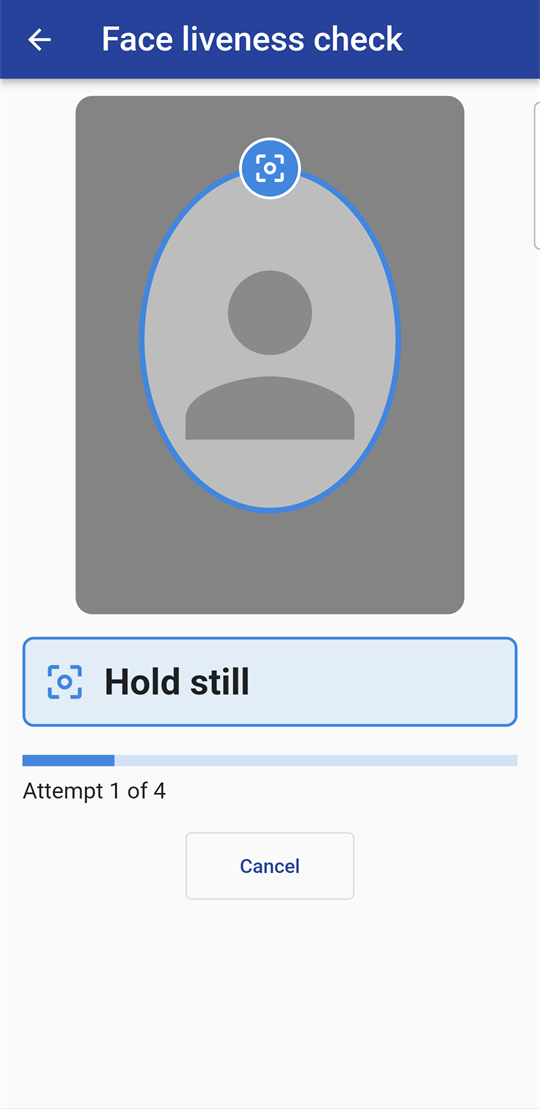
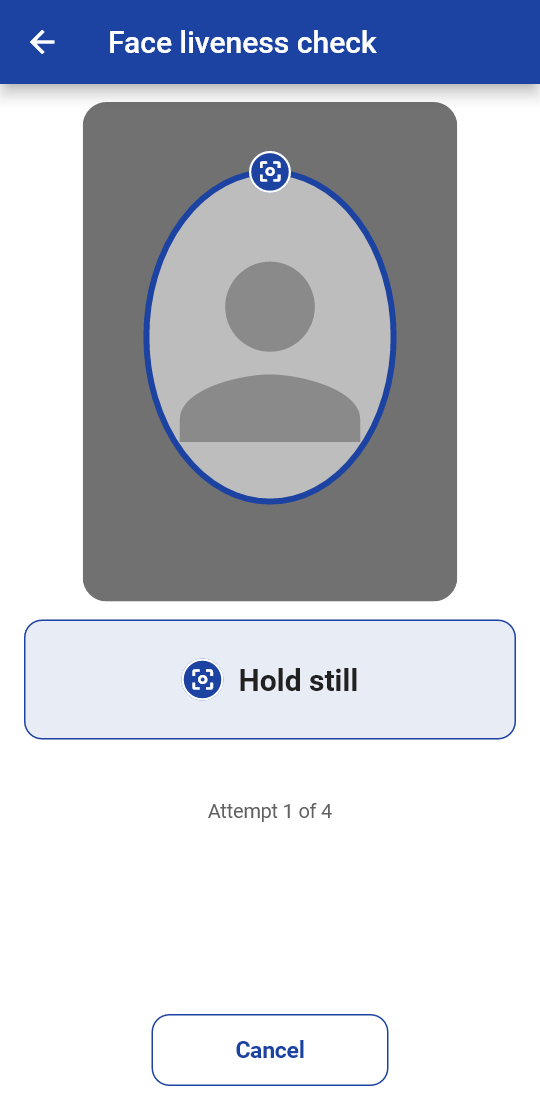
Liveness screen visual design: spec section 9 and the Android screenshots (task 16)
docs/ui-liveness-spec.md, section 9 "Visual design", is new. It holds the tokens both clients now share:
- the order: camera card, status card, hint line, progress row, tips, and the buttons pinned to the bottom;
- the camera card (3:4 on the phone, 4:3 on Desktop, at most 45% of the height, a 40% scrim, the 28 dp badge on the
  oval's top centre);
- the status card (20/600, at most 2 lines, stepping down to 16 where needed; the state colour at 10%, minimum
  height 80);
- the hint line (15, grey-700);
- the progress row (segmented bar; after a failed attempt only the attempts left);
- the tips card and the equal-width 48 dp buttons;
- the colours, with checked contrast. Text is 16.1:1, secondary 6.2:1, and the white badge icons 5.0 to 8.9:1. The
  amber badge has a dark icon: 6.3:1, where white would be 2.6:1;
- type, motion (a 200 ms status cross-fade, nothing else), accessibility, the tests and the screenshots.
Sections 2, 3 and 7 now point at it: 20/15 in place of 24/18, no indeterminate bar, and the fade in place of the
icon pulse.

docs/images/android: the 20 screens again, same names. The client's liveness_screenshots_test renders them from the
fake engine's events with the grey placeholder, so no camera and no face. 540x1110 px, as before. The earlier set was
captured on the phone and showed a Samsung edge-panel handle at the right edge (x 535); the rendering has no system
[…]

diff --git a/docs/ui-liveness-spec.md b/docs/ui-liveness-spec.md
@@ -29,33 +29,35 @@ The source of truth is the `liveness-api` contract: `LivenessEvent`, `LivenessRe
 
 ```
 +------------------------------------------------------------+
-|  <Title per workflow>                              [Cancel] |
+|  <Title per workflow>                                      |
 +------------------------------------------------------------+
+|              +------------------------------+              |
+|              |          (badge)             |  camera card |
+|              |        ( face oval )         |  oval colour |
+|              |   live preview, mirrored     |  + badge     |
+|              +------------------------------+              |
+|   +----------------------------------------------------+   |
+|   |  (icon)  STATUS (e.g. "Please blink")              |   |  status card
+|   +----------------------------------------------------+   |
+|         hint line (guidance, e.g. "Please move closer")    |
+|   Step 1 of 2   [=====] [==---]          Attempt 1 of 4    |
+|   (failure only) tips card                                 |
 |                                                            |
-|                 +------------------------+                 |
-|                 |   live camera preview  |                 |
-|                 |      ( face oval )     |  <- oval colour |
-|                 |   mirrored, oval guide |     + icon      |
-|                 +------------------------+                 |
-|                                                            |
-|   [icon]  STATUS LINE (large, e.g. "Please blink")         |
-|           hint line (guidance, e.g. "Please move closer")  |
-|                                                            |
-|   Step 1 of 2   [=========-----------]   Attempt 1 of 4    |
-|                                                            |
-|   (failure only) tips list                                 |
-|                                                            |
-|            [ Retry ]    [ Cancel ]    [ Close ]            |
+|   [         Retry          ]   [         Cancel         ]  |
 +------------------------------------------------------------+
 ```
 
+The sizes, colours and type are in §9.
+
 - **Title:** `liveness.title.<workflow>`.
 - **Preview:** the full camera preview with a face-oval guide. The oval outline takes the state colour, always
-  together with an icon. Colour is never the only signal.
-- **Status line:** the main message, large (at least 24 sp/pt). The challenge prompt goes here.
-- **Hint line:** positioning guidance, smaller. It is empty when there is nothing to say.
-- **Step "i of n"** and the **progress bar:** only during challenges.
-- **"Attempt a of m":** `a` = `event.attemptNumber`, `m` = `policy(workflow).maxRetries + 1`.
+  together with the state badge (an icon). Colour is never the only signal.
+- **Status card:** the main message, 20 sp/px semibold, at most 2 lines. The challenge prompt goes here.
+- **Hint line:** positioning guidance or feedback, 15 sp/px. It is empty when there is nothing to say. After a final
+  failure it holds the recovery text.
+- **Step "i of n"** and the **step bar** (one segment per challenge): only during challenges.
+- **"Attempt a of m":** `a` = `event.attemptNumber`, `m` = `policy(workflow).maxRetries + 1`, while the session runs.
+  After a failed attempt the progress row shows only `liveness.retry.attempts_left`, never both.
 - **Buttons:**
   - **Retry** only after ATTEMPT_FAILED, or after a DEVICE_ERROR with `recoverable = true`.
   - **Cancel** always, except after PASSED and FAILED_FINAL.
@@ -82,6 +84,8 @@ The source of truth is the `liveness-api` contract: `LivenessEvent`, `LivenessRe
 | `onComplete(CANCELLED)` | none | none | none | none | close the screen and return to the previous one. No message (`UserMessage.NONE`); log only. |
 
 **Notes on the table:**
+- **Progress** is what the screen model holds; §9 says how it is drawn. "Indeterminate" draws no bar (no animation),
+  only "Attempt a of m". The `liveness.retry.attempts_left` hint is drawn in the progress row.
 - **Tips.** With ATTEMPT_FAILED and `userMessage() == LIVENESS_NOT_VERIFIED`, also show the tips list
   (`liveness.tips.*`, §4.2). With VERIFICATION_NOT_COMPLETED (which covers PAD failures), show no tips. With
   DEVICE_PROBLEM, show no tips.
@@ -504,18 +508,95 @@ The text is generic: it never shows a score, a threshold or a reason. Audit: Des
 - **Screen readers.** Announce every status-line change: the prompt, the result and the failure text. Use
   TalkBack/`SemanticsService.announce` on Android and `accessibleText` with a live-region notification on JavaFX.
   Do not announce progress ticks; announce the hint at most once per change.
-- **Large text.** The status line is at least 24 sp/pt and the hint at least 18. Respect the system font scale,
-  and let the layout grow rather than truncate.
+- **Large text.** The status is 20 sp/px semibold and the hint 15 (§9). Respect the system font scale, and let the
+  layout grow rather than truncate: at a large scale the camera card gives up height first, and only the tips
+  scroll, never the buttons.
 - **Never rely on colour alone.** Every oval colour is paired with an icon, and every state has a text. The
   red/green states are also distinguishable by shape (cross or check).
 - **Touch targets** are at least 48 dp. Cancel stays reachable with one hand on phones.
-- **Motion.** Challenge icons may animate, but keep the animation off when the system "reduce motion" setting is on.
+- **Motion.** A 200 ms cross-fade when the status changes, nothing else (§9). It is off when the system "reduce
+  motion" setting is on (Android) or with `desktop.animations=false` (Desktop).
 
 ## 8. Diagnostics
 
 `policy.diagnosticMode = true` adds detail to logs and the audit trail only (scores, model version, timings). It
 **never** changes what is on screen. Production screens look identical whatever the setting. Developer overlays such
 as frame times or scores are allowed only on separate debug-only screens that are not reachable in release builds.
+
+## 9. Visual design
+
+Both clients draw the screen with the same tokens: Android in `lib/ui/liveness/liveness_style.dart`, Desktop in
+`liveness.css` and `LivenessView`. This section is visual only. The states, texts and message keys are §3–§5, and the
+500 ms guidance debounce (§4.3) is unchanged.
+
+**Layout, top to bottom:**
+1. the client's title bar (unchanged);
+2. the camera card;
+3. the status card;
+4. the hint line;
+5. the progress row;
+6. the tips (failure only);
+7. the button row, pinned to the bottom.
+
+The content is centred and at most 560 dp/px wide. A phone at 360×640 or 412×915 dp never scrolls, in any state. At a
+1.3 text scale only the tips may scroll, never the buttons.
+
+| Element | Tokens |
+|---|---|
+| Camera card | 3:4 on the phone, 4:3 on Desktop; radius 16. At most 45% of the screen height; it takes what is left, so it is smaller when the tips need the room. The face oval has a 4 dp stroke in the state colour, with a 40% black scrim outside the oval |
+| State badge | a 28 dp circle in the state colour, with a 1.5 dp white ring and an 18 dp icon. It sits on the oval's top centre, inside the card; the same badge starts the status card |
+| Status card | the badge and one message, centred. 20 sp/px semibold (600), at most 2 lines: a long message steps down towards 16 where 20 would need a third line (the device text on a 360 dp phone). The state colour at 10% behind, a 1 dp border in the state colour, radius 12, padding 12, minimum height 80 so that it never jumps |
+| Hint line | 15 sp/px regular, grey-700 (#616161), centred, with the warning icon (#B26A00) beside guidance. While guidance can still arrive (the session runs and has not failed), the line keeps 20 dp even when it is empty |
+| Progress row | During challenges: "Step i of n" at the start, a segmented bar, "Attempt a of m" at the end. Captions are 13 sp/px grey-700, each at most 35% of the row. One segment per challenge, 6 dp high, 4 dp apart, grey #E0E0E0: done steps are filled with the primary colour, the current one is half filled and fills further with the challenge's progress. Otherwise "Attempt a of m" alone, centred, while the session runs. After a failed attempt only "n attempt(s) left" (15 sp/px). No bar outside challenges |
+| Tips | failure only (LIVENESS_NOT_VERIFIED). A light-grey card (#F5F5F5), radius 12, 14 sp/px, bullets. On the phone at most 40% of the content height; beyond that it scrolls |
+| Buttons | one row of equal widths (a single button is as wide as one of two), 48 dp/px high, radius 12, 12 apart, 15 sp/px semibold. Retry and Close are filled with the primary colour; Cancel and Open settings are outlined in it. Retry only when a retry exists (§2) |
+
+**Colours.** The same hex on both clients:
+
+| State | Colour | Badge icon on it | Contrast |
+|---|---|---|---|
+| Checking, guidance; also done steps and filled buttons | primary #1C43A1 (the Android app bar's blue) | white | 8.9:1 |
+| Challenge | amber #E8890C | #1F1F1F | 6.3:1 (white would be 2.6:1) |
+| Passed, action detected | green #2E7D32 | white | 5.1:1 |
+| Failure, PAD, device | red #D32F2F | white | 5.0:1 |
+| Starting | grey #616161 | white | 6.2:1 |
+
+Text is #212121 (16.1:1 on white, at least 13.6:1 on every 10% status tint) or #616161 (6.2:1 on white, 5.7:1 on the
+tips card). The outlined buttons' #1C43A1 on white is 8.9:1. The warning icon is 4.2:1, where non-text needs 3:1. A
+colour always comes with an icon and a text (§7).
+
+**Type.** Each client's own family: Roboto on Android; Segoe UI on Windows, with its Semibold face for 600. Status
+20/600, body 15/400, tips 14/400, caption 13/400. No ALL CAPS.
+
+**Motion.** A 200 ms cross-fade when the status changes, and nothing else; the Desktop challenge-icon pulse is gone.
+It is off when the system's reduce-motion setting is on (Android) or with `desktop.animations=false` (Desktop).
+
+**Accessibility.**
+- Touch targets are at least 48 dp.
+- The status card and the hint line are live regions on Android; on Desktop the status label's accessible text is
+  updated (§7). The badges, the preview and the step bar are hidden from screen readers, because the texts say the
+  same.
+- Right-to-left languages are mirrored: on Android by Flutter's text direction, on Desktop by `NodeOrientation` for
+  Arabic, Persian, Hebrew and Urdu. The camera card and the state icons are not mirrored: they show the user's
+  physical left and right.
+
+**Tests.**
+- Android, `test/liveness/liveness_page_layout_test.dart`: every state at 360×640 and 412×915 dp, in English, in
+  Arabic and at a 1.3 text scale, with Roboto loaded. It checks:
+  - no overflow, and nothing scrolls but the tips;
+  - the buttons are on screen and 48 high;
+  - the camera card is 3:4 and at least 30% of the height (15% with the tips);
+  - the badge is on the oval's top centre;
+  - the English status takes at most 2 lines;
+  - a failed attempt shows one attempts line;
+  - the right-to-left order.
+- Desktop, `LivenessViewLayoutTest`: the 14 documented states at 720×820 (the client's window) and 1280×800, and in
+  Arabic, with the same checks where they apply.
+
+**Screenshots.**
+- `docs/images/android`: from `test/liveness/liveness_screenshots_test.dart`, with the fake engine's events and the
+  grey placeholder instead of a camera; 540×1110 px.
+- `docs/images/part4`: from `LivenessScreenDemo --snapshots`, with the public-domain NASA portrait; 720×820 px.
 
 ## Appendix A. The liveness texts in five more languages (machine-translated)
 

diff --git a/docs/images/android/README.md b/docs/images/android/README.md
@@ -1,32 +1,36 @@
 # Android liveness screenshots
 
 The Android Registration Client's `LivenessPage` (Person 5, P5-3) in each state of
-[`docs/ui-liveness-spec.md`](../../ui-liveness-spec.md) §3. Taken on a Samsung Galaxy S23 FE (Android 16) with the
-**fake engine** and the debug page's **preview placeholder**: no camera picture is shown, so no face or personal data
-appears. The system status and navigation bars are cropped; 540 px wide.
+[`docs/ui-liveness-spec.md`](../../ui-liveness-spec.md) §3, drawn to the visual design of §9. Rendered on 2026-10-28
+by the client's `test/liveness/liveness_screenshots_test.dart` from the **fake engine's events**, with the grey
+**placeholder** instead of a camera picture, so no face or personal data can appear. 360×740 dp at 1.5× (540×1110 px),
+the size of the earlier phone screenshots, with Roboto; no system bars.
 
-| File | State | Fake scenario / setup |
+    LIVENESS_SCREENSHOTS=<dir> flutter test test/liveness/liveness_screenshots_test.dart
+
+| File | State | Events |
 |---|---|---|
-| `01-checking.png` | CHECKING_PASSIVE | PASS_ACTIVE |
-| `02-challenge-blink.png` | CHALLENGE_PROMPT, blink (step 2 of 2) | PASS_ACTIVE |
-| `03-challenge-smile.png` | CHALLENGE_PROMPT, smile | PASS_ACTIVE, challenge pool SMILE |
-| `04-challenge-turn-left.png` | CHALLENGE_PROMPT, turn left | PASS_ACTIVE, challenge pool TURN_LEFT |
-| `05-challenge-progress.png` | CHALLENGE_PROGRESS ("Please continue") | PASS_ACTIVE |
-| `06-action-detected.png` | ACTION_DETECTED | PASS_ACTIVE |
-| `07-hold-still.png` | HOLD_STILL | PASS_ACTIVE |
-| `08-passed.png` | PASSED (the page closes after about 1 s) | PASS_ACTIVE |
-| `09-attempt-failed-tips.png` | ATTEMPT_FAILED, LIVENESS_NOT_VERIFIED with the tips | FAIL_CHALLENGE_THEN_PASS_ON_RETRY |
-| `10-attempt-failed-tips-buttons.png` | the same, scrolled to Retry / Cancel | FAIL_CHALLENGE_THEN_PASS_ON_RETRY |
-| `11-pad-generic.png` | ATTEMPT_FAILED, PAD failure: the generic text, no tips | PAD_ATTACK |
-| `12-guidance-no-face.png` | GUIDANCE no face | NO_FACE_THEN_PASS |
-| `13-guidance-multiple-faces.png` | GUIDANCE multiple faces | MULTIPLE_FACES |
-| `14-guidance-improve-lighting.png` | GUIDANCE improve lighting | POOR_LIGHTING_HINTS |
-| `15-device-error-recoverable.png` | DEVICE_ERROR, recoverable: Retry and Cancel | DEVICE_DISCONNECT |
-| `16-device-failure-final.png` | FAILED_FINAL, device: device text, recovery text, Close | DEVICE_FAILURE |
+| `01-checking.png` | CHECKING_PASSIVE | STARTED, CHECKING_PASSIVE |
+| `02-challenge-blink.png` | CHALLENGE_PROMPT, blink (step 2 of 2) | CHALLENGE_PROMPT BLINK 2/2 |
+| `03-challenge-smile.png` | CHALLENGE_PROMPT, smile | CHALLENGE_PROMPT SMILE 1/2 |
+| `04-challenge-turn-left.png` | CHALLENGE_PROMPT, turn left | CHALLENGE_PROMPT TURN_LEFT 1/2 |
+| `05-challenge-progress.png` | CHALLENGE_PROGRESS ("Please continue"), the step bar filling | TURN_LEFT 1/2, progress 0.7 |
+| `06-action-detected.png` | ACTION_DETECTED | BLINK 1/2, ACTION_DETECTED |
+| `07-hold-still.png` | HOLD_STILL | HOLD_STILL |
+| `08-passed.png` | PASSED (the page closes after about 1 s) | PASSED |
+| `09-attempt-failed-tips.png` | ATTEMPT_FAILED, LIVENESS_NOT_VERIFIED with the tips; one attempts line | CHALLENGE_TIMEOUT, 3 retries left |
+| `10-attempt-failed-tips-buttons.png` | the same at a 1.3 text scale, the tips scrolled to their end; Retry and Cancel stay in place | as 09 |
+| `11-pad-generic.png` | ATTEMPT_FAILED, PAD failure: the generic text, no tips | PAD_FAILURE, VERIFICATION_NOT_COMPLETED |
+| `12-guidance-no-face.png` | GUIDANCE no face | CHECKING_PASSIVE, GUIDANCE NO_FACE |
+| `13-guidance-multiple-faces.png` | GUIDANCE multiple faces | CHECKING_PASSIVE, GUIDANCE MULTIPLE_FACES |
+| `14-guidance-improve-lighting.png` | GUIDANCE improve lighting | CHECKING_PASSIVE, GUIDANCE IMPROVE_LIGHTING |
+| `15-device-error-recoverable.png` | DEVICE_ERROR, recoverable: Retry and Cancel | DEVICE_ERROR, recoverable |
+| `16-device-failure-final.png` | FAILED_FINAL, device: device text, recovery text, Close | FAILED_FINAL DEVICE_PROBLEM |
 | `17-max-attempts-resident.png` | FAILED_FINAL, max attempts, resident recovery | MAX_RETRIES_EXCEEDED, RESIDENT |
 | `18-max-attempts-operator.png` | FAILED_FINAL, max attempts, operator recovery | MAX_RETRIES_EXCEEDED, OPERATOR |
 | `19-max-attempts-supervisor.png` | FAILED_FINAL, max attempts, supervisor recovery | MAX_RETRIES_EXCEEDED, SUPERVISOR |
-| `20-operator-cooldown-refusal.png` | cooldown refusal (an immediate FAILED_FINAL) | OPERATOR again within the 60 s cooldown |
+| `20-operator-cooldown-refusal.png` | cooldown refusal (an immediate FAILED_FINAL) | MAX_RETRIES_EXCEEDED on attempt 1, OPERATOR |
 
-The oval colour always comes with an icon. The debug-only model chip is hidden in placeholder mode. English only:
-the other languages fall back to English until their translations are added.
+The oval colour always comes with the state badge, an icon. The debug-only model chip is off. English only: the other
+languages fall back to English until their translations are added. On the phone itself the screen is the same; the
+test renders the semibold status in Roboto's bold face, which the SDK ships.

diff --git a/docs/part5-android-integration.md b/docs/part5-android-integration.md
@@ -789,7 +789,7 @@ It shows scores and model versions, but never camera images other than the live 
 | suite | tests | covers |
 |---|---|---|
 | `android/liveness` module (JVM) | **112**, all passing | audit sink (11, with REG-EVT-019), config provider (4), asset bundle source (6), event and result maps (9), holder config, reload, Android defaults, exposure key, bundle install refusal, model update refusal and audit (13), swappable factory (3), timing (2), metrics store (5), benchmark bookkeeping (6), CameraX YUV conversion and rotation (4), frame pacing (5), exposure assist (7); face binding on the real matcher with the golden PNGs (10), the BitmapFactory decoder with Robolectric (4), matcher benchmark (2); model update settings, scheduling without WorkManager and the outcomes kept while the engine is down (4); F17 offline install with a bundle signed by a throwaway key: install and reload, tampered (also when it claims an older version), older, zip-slip, rollback, role gate, the debug builds' role override (ignored by release builds), config switch (10); F15 identity binding on the real matcher with the golden PNGs: a match uses the frame once, another person, the best of several with unreadable ones counted, not bound and required, every failure fails closed, skipped (6); only a debug build reads the F15 test template, audited templateSource=diagnostics-test (1) |
-| Flutter `test/liveness` | **98**, all passing | controller (36), page (11), gate (9): prompts, guidance timing, errors and recovery texts, permission paths, outcome mapping, fail closed, root navigator from a dialog; face binding in the hooks (8); translations: all 45 keys in the six ARB files with the English placeholders, the machine-translation note, every key in every locale (12); the page in Arabic (right to left, arrows not mirrored), in Hindi, and every state in all six languages without a layout error (8); F17 "Face liveness models": the entry shown only when allowed, install, refusals with generic texts, rollback confirmation, translations and the 15 keys in all six languages (6); F15 `IdentityBinding.run`: a match, one retry with a new session, a second rejection, Cancel, not bound and required, errors and missing session ids, gates that never call the check, and the dialog's text and buttons without a score (8) |
+| Flutter `test/liveness` | **238**, all passing | controller (36), page (11), gate (9): prompts, guidance timing, errors and recovery texts, permission paths, outcome mapping, fail closed, root navigator from a dialog; face binding in the hooks (8); translations: all 45 keys in the six ARB files with the English placeholders, the machine-translation note, every key in every locale (12); the page in Arabic (right to left, arrows not mirrored), in Hindi, and every state in all six languages without a layout error (8); F17 "Face liveness models": the entry shown only when allowed, install, refusals with generic texts, rollback confirmation, translations and the 15 keys in all six languages (6); F15 `IdentityBinding.run`: a match, one retry with a new session, a second rejection, Cancel, not bound and required, errors and missing session ids, gates that never call the check, and the dialog's text and buttons without a score (8); the visual design (spec §9): all 23 states at 360×640 and 412×915 dp, in English, in Arabic and at a 1.3 text scale, with Roboto: no overflow, nothing scrolls but the tips, buttons on screen and 48 high, the camera card 3:4, the badge on the oval's top centre, the status at most 2 lines, one attempts line after a failure, right-to-left order; the 200 ms fade and the step bar (140). Not counted: the 20 tests that render `docs/images/android`, skipped unless `LIVENESS_SCREENSHOTS` names a folder |
 | clientmanager `GlobalParamRepositoryRefreshListenerTest` | **3**, all passing | refresh listeners run after a successful refresh only |
 | engine (Mosip26) | api 5, core 227, fake 44, tools 12, analyzer 257, eval 65 | Parts 1 to 3, and the online update (`ModelUpdaterTest`, 14) and `ModelBundleTool pack`; see their documents |
 
